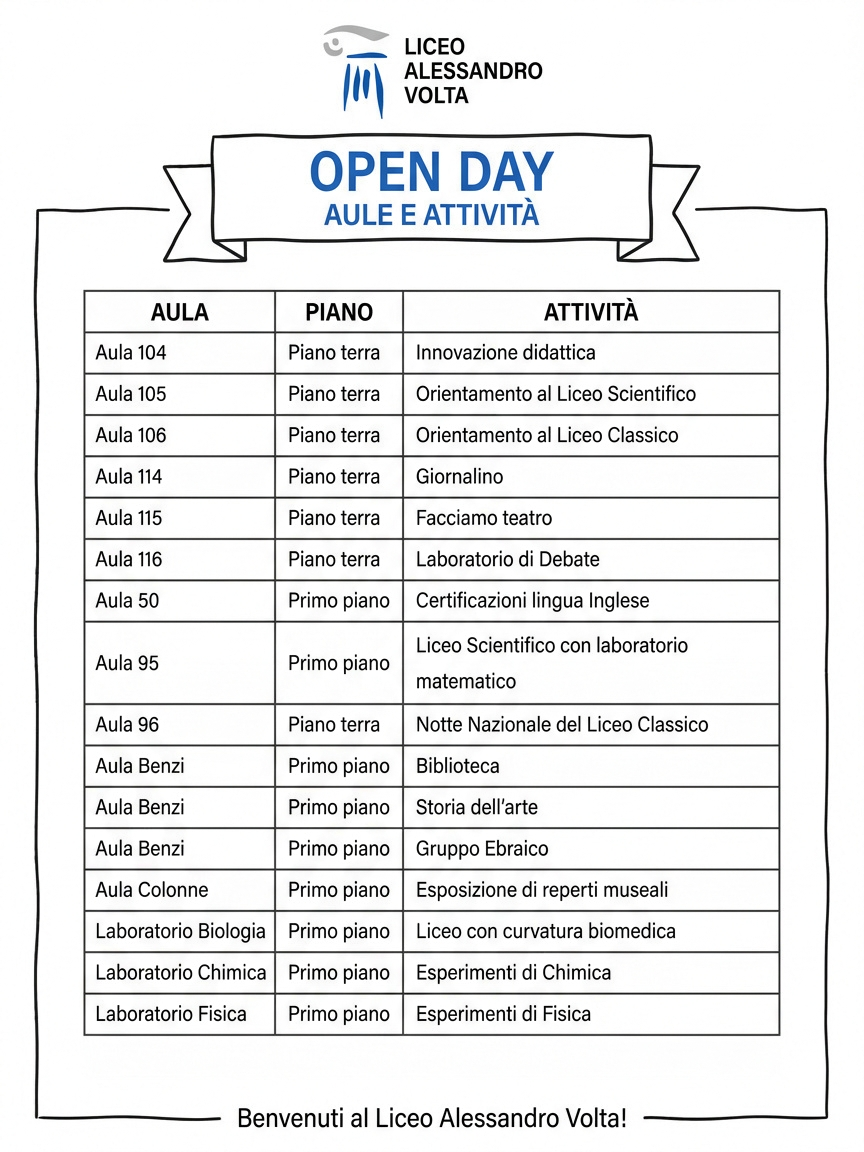
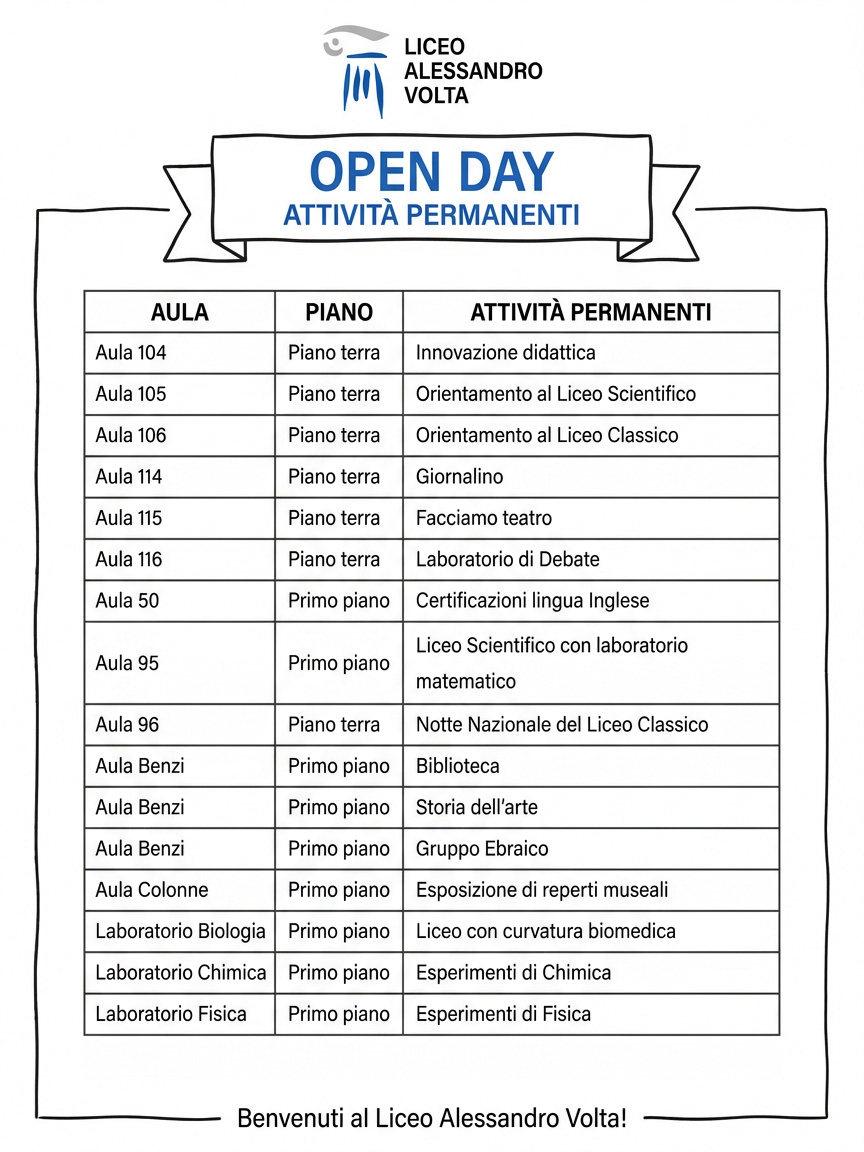
Open Day: nuove tabelle attività programmate/permanenti e titoli pulsanti
Claude-Session: https://claude.ai/code/session_015rupjJGZNkMuZktAd33Yfn

Changed region(s): [[0.3125, 0.1562, 0.6562, 0.2188], [0.5312, 0.25, 0.8125, 0.2812]]

diff --git a/public/planimetrie.html b/public/planimetrie.html
@@ -26,22 +26,22 @@
 <header>
   <h1>Liceo Volta · Open Day</h1>
   <nav>
-    <a href="#programma">Programma</a>
-    <a href="#aule">Aule e attività</a>
-    <a href="#piano-terra">Piano terra</a>
-    <a href="#primo-piano">Primo piano</a>
+    <a href="#programma">Attività Programmate</a>
+    <a href="#aule">Attività Permanenti</a>
+    <a href="#piano-terra">Piano Terra</a>
+    <a href="#primo-piano">Primo Piano</a>
   </nav>
 </header>
 <main>
   <section id="programma">
-    <h2>Programma delle attività</h2>
-    <a href="/openday-programma.jpg"><img src="/openday-programma.jpg" alt="Programma delle attività dell'Open Day con orari, aule e piani"></a>
-    <a class="zoom" href="/openday-programma.jpg">Tocca l'immagine per ingrandirla</a>
+    <h2>Attività Programmate</h2>
+    <a href="/openday-programma.jpg?v=2"><img src="/openday-programma.jpg?v=2" alt="Programma delle attività dell'Open Day con orari, aule e piani"></a>
+    <a class="zoom" href="/openday-programma.jpg?v=2">Tocca l'immagine per ingrandirla</a>
   </section>
   <section id="aule">
-    <h2>Aule e attività</h2>
-    <a href="/openday-aule-attivita.jpg"><img src="/openday-aule-attivita.jpg" alt="Elenco delle aule dell'Open Day con piano e attività"></a>
-    <a class="zoom" href="/openday-aule-attivita.jpg">Tocca l'immagine per ingrandirla</a>
+    <h2>Attività Permanenti</h2>
+    <a href="/openday-aule-attivita.jpg?v=2"><img src="/openday-aule-attivita.jpg?v=2" alt="Elenco delle aule dell'Open Day con piano e attività"></a>
+    <a class="zoom" href="/openday-aule-attivita.jpg?v=2">Tocca l'immagine per ingrandirla</a>
   </section>
   <section id="piano-terra">
     <h2>Piano terra</h2>
